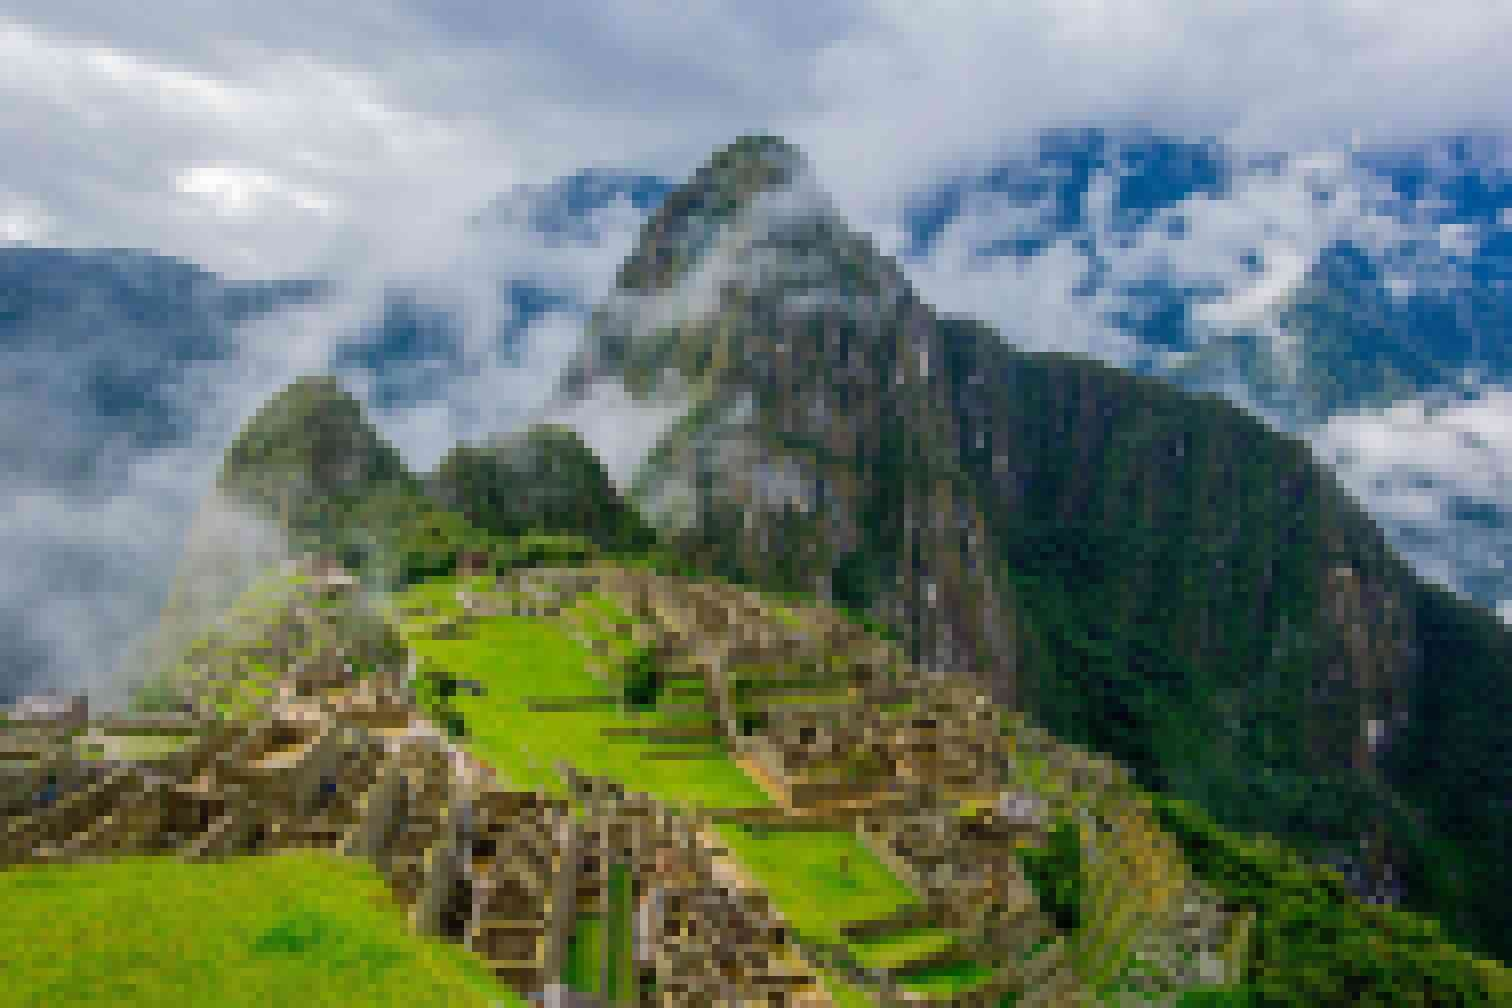
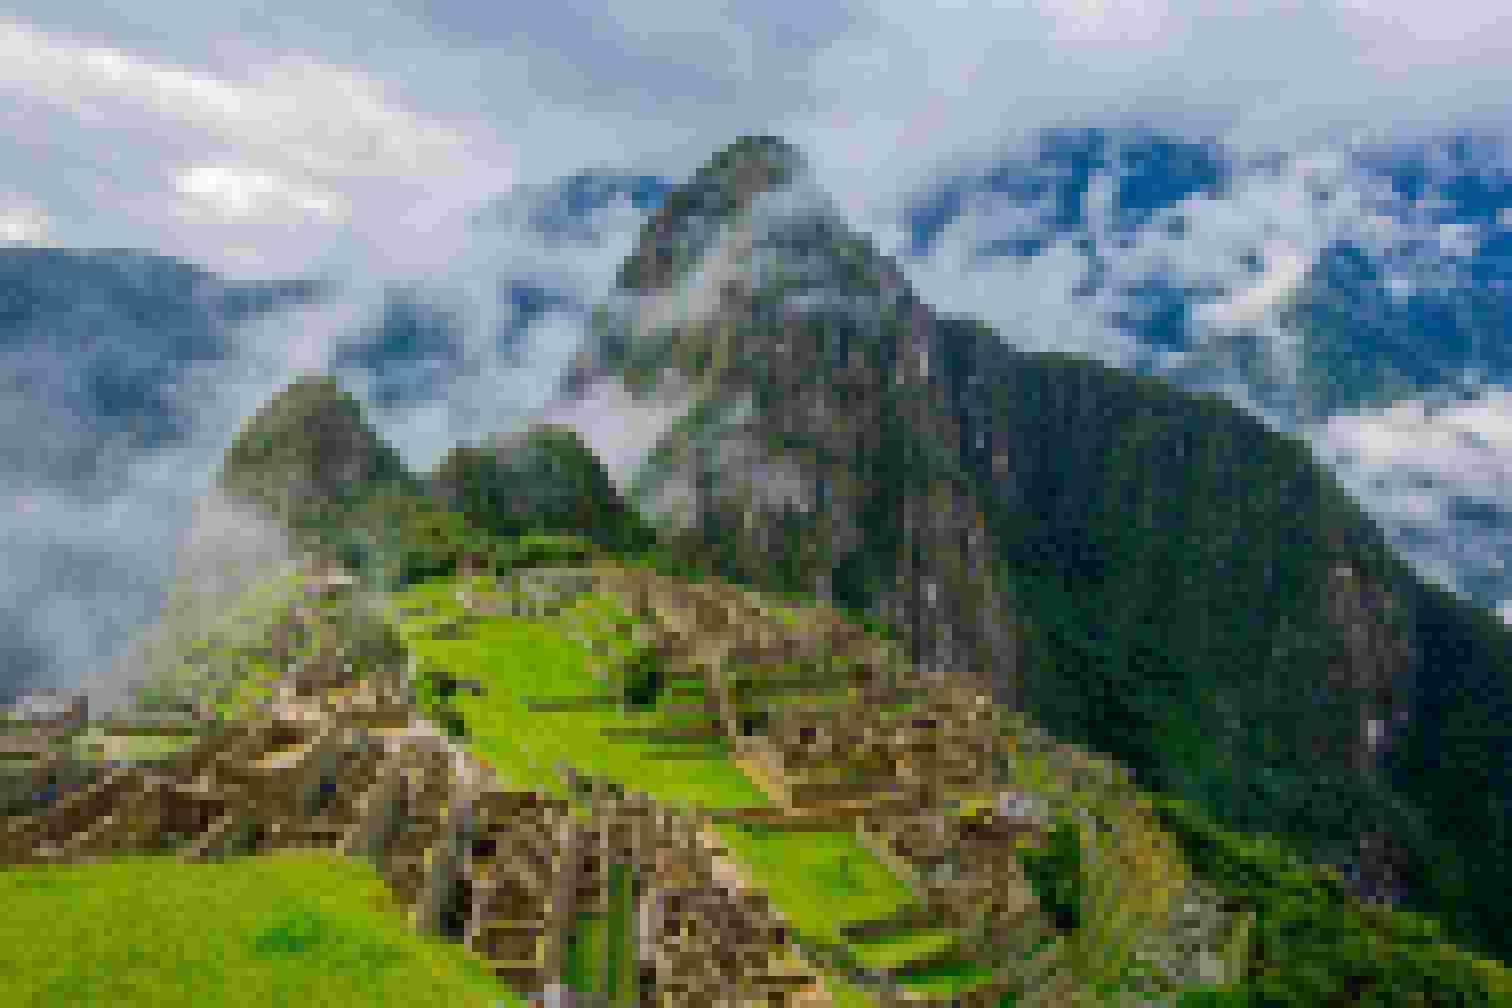
compression: images

Changed region(s): [[0.4041, 0.7073, 0.4352, 0.7381]]

diff --git a/downgrader.py b/downgrader.py
@@ -2,7 +2,7 @@ import os
 from PIL import Image
 
 # Define the paths
-source_folder = 'static/images'  # Folder where the original images are stored
+source_folder = '/Users/jakeziegler/Desktop/images'  # Folder where the original images are stored
 destination_folder = 'static/compressed_images'  # Folder where the optimized images will be saved
 
 # Create destination folder if it doesn't exist
